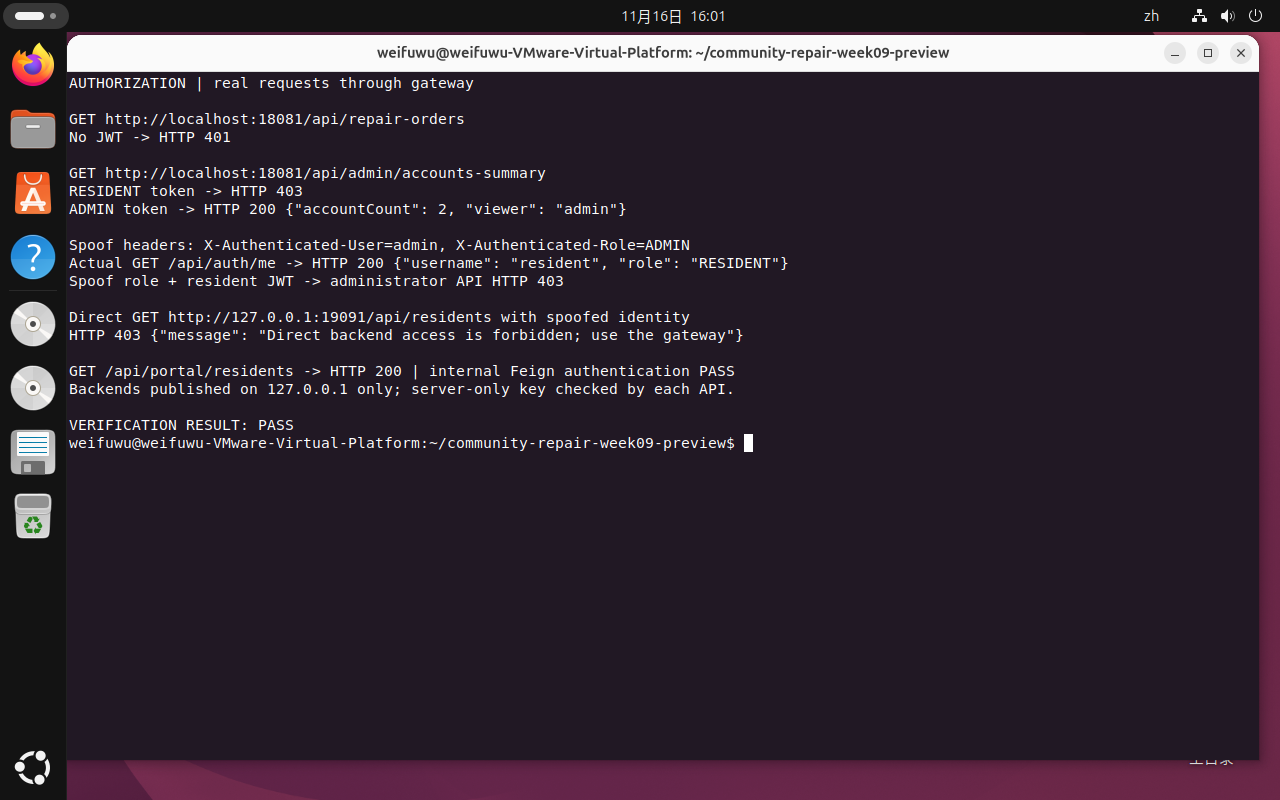
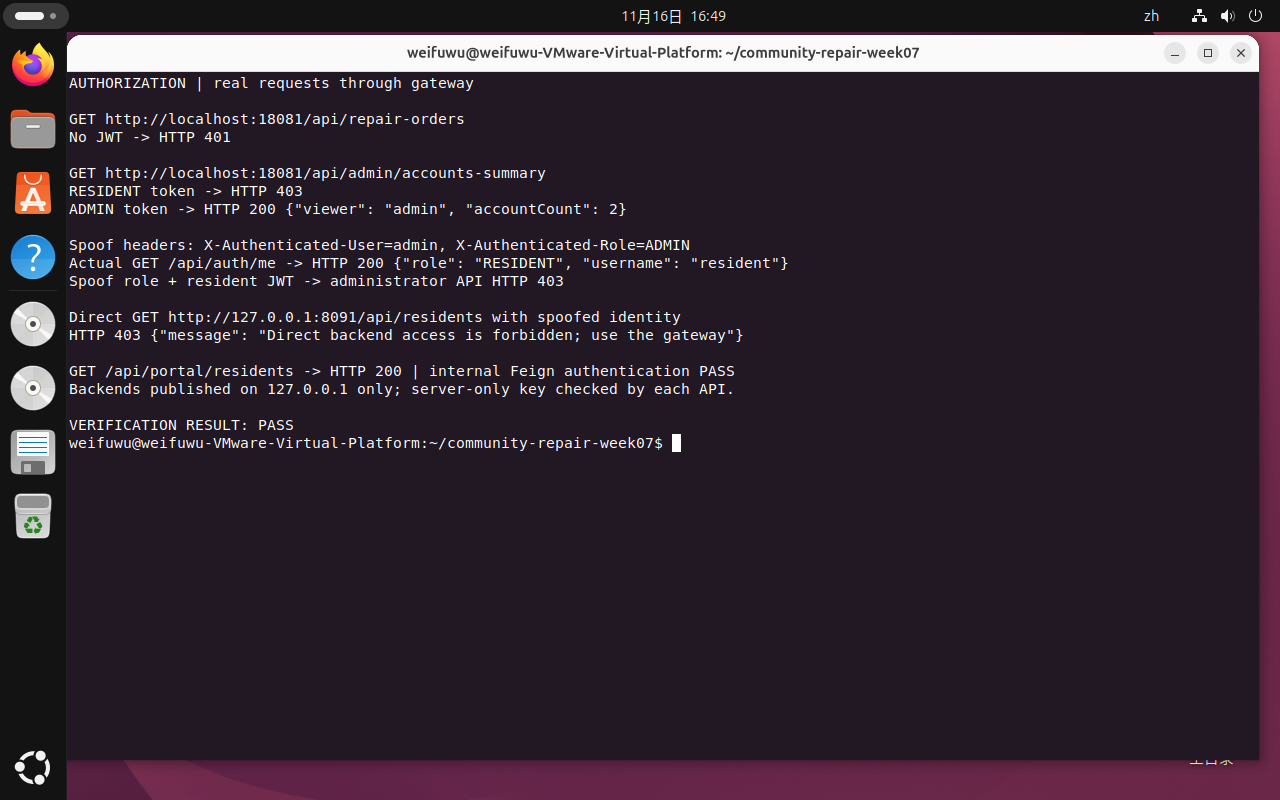
Document original deployment upgrade and refresh Ubuntu evidence

diff --git a/docs/ui-guide.md b/docs/ui-guide.md
@@ -1,11 +1,13 @@
 # 可视化报修工作台
 
+> 第九周更新：统一通过网关 18081 访问，使用本地测试账号登录。admin 为管理员，resident 为普通用户，普通用户不能审核、派单、删除或修改档案。原 8093 端口仅保留回环诊断用途。
+
 ## 访问和启动
 
 网页直接部署在 `services/repair-service/src/main/resources/static/`，随 Spring Boot 打包。
 
-- Windows：`http://192.168.158.128:8093/`
-- Ubuntu：`http://localhost:8093/`
+- Windows：`http://192.168.158.128:18081/`
+- Ubuntu：`http://localhost:18081/`
 
 在 Ubuntu 当前项目根目录执行 `sudo docker compose up -d --build`。本机实际运行副本为 `~/community-repair-week07`，源码仓库保留在 Windows 原目录。更新报修服务可执行 `sudo docker compose up -d --build --no-deps repair-service`，数据库卷及原数据保留。
 
@@ -25,7 +27,7 @@
 
 `/api/portal/residents` 和 `/api/portal/technicians` 提供 GET 列表、POST 新增及 GET 单条。PortalController 负责输入输出，第 8 周起，DependencyClient 通过 OpenFeign 按服务名调用，底层使用 Nacos 与 LoadBalancer 寻址，保留连接和读取超时。输入使用 DTO 校验，实际档案规则及存储仍由对应的 user-service 或 technician-service 完成。页面不连接数据库、不写死依赖 IP、不需要 CORS，也不保存 Nacos 凭据。
 
-原工单 API 及业务 Service 规则继续使用。资源不存在返回 404、冲突返回 409、依赖不可用返回 503。实际维修完成、验收和业务登录权限仍未实现。
+原工单 API 及业务 Service 规则继续使用。资源不存在返回 404、冲突返回 409、依赖不可用返回 503。实际维修完成和验收仍未实现；业务登录与角色权限已在第九周接入。
 
 ## 本次验证
 
@@ -37,7 +39,7 @@
 
 ## 功能边界
 
-当前所有角色操作在同一演示工作台进行，没有登录或权限限制。接单界面模拟人员操作，不构成真实身份认证。历史已有服务健康检查和 Nacos 注册功能不等价于业务认证。运行结果以当次接口响应和数据为准。
+当前工作台要求登录，并由网关校验 JWT 和角色。管理员负责审核、派单、接单及删除，普通账号只能进行允许的读取和报修创建。接单目前仍由管理员演示操作，尚未绑定独立的维修人员登录身份。服务健康检查和 Nacos 注册本身不等价于业务认证。运行结果以当次接口响应和数据为准。
 
 
 真实页面停服验证：user-service 停止后，用已存在住户从页面提交新的有效工单，显示 HTTP 503，数量为 9 → 9；恢复并重新注册后，同一页面的新描述提交成功，新增工单 10（SUBMITTED）。另验证分页和服务器文本转义，无浏览器运行异常。演示期间的用户服务已恢复，其他服务和数据库未删除。
@@ -59,7 +61,7 @@
 
 删除只移除所选工单，不删除住户和维修人员档案。成功后关闭窗口，刷新列表、分页和统计；删除失败会保留窗口并显示后端错误。删除与此前正在进行的刷新按顺序执行，避免成功删除后又展示旧列表。
 
-后端提供 `DELETE /api/repair-orders/{id}`，事务由 RepairService 管理，成功返回 204（无响应体），不存在或重复删除返回 404。已有的乐观锁冲突按原错误处理返回 409。各状态的单条工单都可删除，目前没有回收站，也没有业务登录和权限限制，因此仍仅用于课程演示。
+后端提供 `DELETE /api/repair-orders/{id}`，事务由 RepairService 管理，成功返回 204（无响应体），不存在或重复删除返回 404。已有的乐观锁冲突按原错误处理返回 409。各状态的单条工单都可删除，目前没有回收站；删除要求 ADMIN 角色，由网关拦截普通账号。系统仍用于课程演示，尚未实现逐条工单的数据范围权限。
 
 请保留期中演示工单 BX-0011。验收删除功能时应新建明确标记的临时工单，不要使用需要留存的汇报记录。
 

diff --git a/docs/homework/week-09/index.md b/docs/homework/week-09/index.md
@@ -64,18 +64,24 @@ bash scripts/auth-test.sh
 
 材料应以实际验证为准，运行截图完成后再提交。测试账号分别为 admin/ADMIN 和 resident/RESIDENT，密码从本地环境文件获取。尚未实现记录级权限、刷新令牌、登录限流和正式密码重置，不将这些功能列为已完成。
 
-## 本次 Ubuntu 实际验证环境
+## 本次 Ubuntu 原部署更新与验证
 
-本次运行证据来自独立目录 `/home/weifuwu/community-repair-week09-preview`、Compose 项目 `community-repair-week09-preview`，使用独立数据库卷及 Nacos 的 `WEEK09_VERIFY_GROUP`。原 `/home/weifuwu/community-repair-week07` 运行环境与业务数据未替换。两套环境不能混用诊断端口或注册分组。
+经用户确认后，已在原目录 `/home/weifuwu/community-repair-week07`、原 Compose 项目 `community-repair-services` 更新本周网关与认证配置。截图及运行证据已重新取自原环境，注册分组继续使用 `PERSONAL_GROUP`。
 
-验证入口为 `http://192.168.158.128:18081/`，后端回环诊断端口为 19091（住户实例一）、19094（住户实例二）、19092（维修人员）、19093（报修）。验证库只包含本周新建的测试数据，不将其描述为原库历史业务数据。根目录 `compose.yaml` 提供正式更新配置；`compose.week09-verify.json` 是本次独立验证配置。
+统一入口为 `http://192.168.158.128:18081/`。住户两个实例的回环诊断端口为 8091、8094，维修人员为 8092，报修为 8093；这些后端端口不再直接向局域网发布。原 Nacos 控制台仍使用 18088，数据库仍保留原有三个数据卷。
+
+更新前已备份配置、源代码、三个数据库完整 SQL、原镜像标识及业务表快照，备份位于 Ubuntu 的 `/home/weifuwu/week09-backups/original-before-update-20261116/`。该私有备份包含数据库资料，不上传 GitHub。
+
+更新前后逐字节比较原业务表数据快照，住户 11 条、维修人员 15 条、工单 21 条均未改变；三个数据库数据卷名称也一致。认证所需的账号表是本周新增内容，不覆盖原住户资料。保留两个住户服务实例，账号存放于同一个原 user_db。
 
 ```bash
-cd /home/weifuwu/community-repair-week09-preview
-docker compose -f compose.preview.json ps
+cd /home/weifuwu/community-repair-week07
+docker compose ps
 bash scripts/auth-test.sh
 ```
 
-独立配置复现时先配置数据库及 Nacos 凭据、生成本地认证参数，设置 `BACKEND_TEST_URL=http://127.0.0.1:19091`，再运行 `docker compose -f compose.week09-verify.json up -d --build`。通过 `VERIFY_NACOS_ADDR` 指定现有 Nacos 地址。网关的健康成功后仍需等待业务实例注册完成，再执行认证脚本；若服务尚未就绪，脚本会如实失败而非忽略错误。
+本周代码本机服务测试合计 45 项通过，原 Ubuntu 部署实际 HTTP 验证 17 项通过，覆盖登录、未认证、越权、三条业务路由、伪造身份、令牌篡改/过期、后端直连和内部 Feign 协作。完整原部署校验见 [deployment-original.json](evidence/deployment-original.json)。
 
-本机本轮测试合计 45 项通过：user-service 10、repair-service 24、technician-service 4、gateway-service 7。Ubuntu 本轮实际 HTTP 检查 17 项通过。运行证据和截图均不含实际密码、签名密钥或完整 JWT。
+此前的独立预览容器已停止，预览数据库卷保留作验证记录；当前 18081 端口由原部署网关提供服务。`compose.week09-verify.json` 仅保留为可选独立验证配置，不要与当前环境同时占用同一网关端口。原部署启动使用根目录 `compose.yaml`。
+
+本次终端截图和证据不包含实际密码、JWT 签名密钥或完整令牌。测试账号仍为 admin/ADMIN、resident/RESIDENT，密码只在本地环境文件中保存。

diff --git a/docs/security.md b/docs/security.md
@@ -73,18 +73,24 @@ JWT 使用 HS256，包含 `sub`、`roles`、`iss=https://community-repair.local`
 
 参考：[Spring Cloud Gateway](https://docs.spring.io/spring-cloud-gateway/reference/)、[Spring Security JWT](https://docs.spring.io/spring-security/reference/reactive/oauth2/resource-server/jwt.html)。
 
-## 本次 Ubuntu 实际验证环境
+## 本次 Ubuntu 原部署更新与验证
 
-本次运行证据来自独立目录 `/home/weifuwu/community-repair-week09-preview`、Compose 项目 `community-repair-week09-preview`，使用独立数据库卷及 Nacos 的 `WEEK09_VERIFY_GROUP`。原 `/home/weifuwu/community-repair-week07` 运行环境与业务数据未替换。两套环境不能混用诊断端口或注册分组。
+经用户确认后，已在原目录 `/home/weifuwu/community-repair-week07`、原 Compose 项目 `community-repair-services` 更新本周网关与认证配置。截图及运行证据已重新取自原环境，注册分组继续使用 `PERSONAL_GROUP`。
 
-验证入口为 `http://192.168.158.128:18081/`，后端回环诊断端口为 19091（住户实例一）、19094（住户实例二）、19092（维修人员）、19093（报修）。验证库只包含本周新建的测试数据，不将其描述为原库历史业务数据。根目录 `compose.yaml` 提供正式更新配置；`compose.week09-verify.json` 是本次独立验证配置。
+统一入口为 `http://192.168.158.128:18081/`。住户两个实例的回环诊断端口为 8091、8094，维修人员为 8092，报修为 8093；这些后端端口不再直接向局域网发布。原 Nacos 控制台仍使用 18088，数据库仍保留原有三个数据卷。
+
+更新前已备份配置、源代码、三个数据库完整 SQL、原镜像标识及业务表快照，备份位于 Ubuntu 的 `/home/weifuwu/week09-backups/original-before-update-20261116/`。该私有备份包含数据库资料，不上传 GitHub。
+
+更新前后逐字节比较原业务表数据快照，住户 11 条、维修人员 15 条、工单 21 条均未改变；三个数据库数据卷名称也一致。认证所需的账号表是本周新增内容，不覆盖原住户资料。保留两个住户服务实例，账号存放于同一个原 user_db。
 
 ```bash
-cd /home/weifuwu/community-repair-week09-preview
-docker compose -f compose.preview.json ps
+cd /home/weifuwu/community-repair-week07
+docker compose ps
 bash scripts/auth-test.sh
 ```
 
-独立配置复现时先配置数据库及 Nacos 凭据、生成本地认证参数，设置 `BACKEND_TEST_URL=http://127.0.0.1:19091`，再运行 `docker compose -f compose.week09-verify.json up -d --build`。通过 `VERIFY_NACOS_ADDR` 指定现有 Nacos 地址。网关的健康成功后仍需等待业务实例注册完成，再执行认证脚本；若服务尚未就绪，脚本会如实失败而非忽略错误。
+本周代码本机服务测试合计 45 项通过，原 Ubuntu 部署实际 HTTP 验证 17 项通过，覆盖登录、未认证、越权、三条业务路由、伪造身份、令牌篡改/过期、后端直连和内部 Feign 协作。完整原部署校验见 [deployment-original.json](homework/week-09/evidence/deployment-original.json)。
 
-本机本轮测试合计 45 项通过：user-service 10、repair-service 24、technician-service 4、gateway-service 7。Ubuntu 本轮实际 HTTP 检查 17 项通过。运行证据和截图均不含实际密码、签名密钥或完整 JWT。
+此前的独立预览容器已停止，预览数据库卷保留作验证记录；当前 18081 端口由原部署网关提供服务。`compose.week09-verify.json` 仅保留为可选独立验证配置，不要与当前环境同时占用同一网关端口。原部署启动使用根目录 `compose.yaml`。
+
+本次终端截图和证据不包含实际密码、JWT 签名密钥或完整令牌。测试账号仍为 admin/ADMIN、resident/RESIDENT，密码只在本地环境文件中保存。

diff --git a/README.md b/README.md
@@ -2,12 +2,12 @@
 
 ## 第九周：网关与认证入口
 
-本周验证入口为 `http://<Ubuntu-IP>:18081/`，工作台已接入登录；本周配置将业务端口限制为回环诊断访问。
+统一入口为 `http://<Ubuntu-IP>:18081/`，工作台已接入登录；本周配置将业务端口限制为回环诊断访问。
 首次配置好原数据库/Nacos `.env` 后运行 `python3 scripts/init-auth-env.py`，再执行 `docker compose up -d --build`。
 测试账号为 `admin`（ADMIN）和 `resident`（RESIDENT），随机测试密码仅保存在本地 `.env`，数据库保存 BCrypt 哈希。
 `bash scripts/auth-test.sh` 验证登录、认证、角色、三条路由及防绕过，失败返回非零退出码。
 完整说明：[安全与路由](docs/security.md)、[本周作业和截图](docs/homework/week-09/index.md)。
-本周在独立 Ubuntu 验证环境运行，原环境尚未替换，详情见本周文档。采用本周配置后，旧周次直接访问业务端口的示例属于历史验证记录，需从网关携带 JWT 访问。旧脚本若未携带内部凭据不再适用于本周部署。
+本周配置已更新到原 Ubuntu 部署，原数据卷及业务记录已核对保留。旧周次直接访问业务端口的示例属于历史验证记录，需从网关携带 JWT 访问。旧脚本若未携带内部凭据不再适用于本周部署。
 
 测试：`./services/user-service/mvnw -f services/user-service/pom.xml test`；将 pom.xml 路径中的服务名分别换为 `technician-service`、`repair-service`、`gateway-service` 可运行对应测试。
 
@@ -24,8 +24,8 @@
 
 已在现有 `repair-service` 内加入同源网页，无需另装前端工具，也不依赖外部 CDN。
 
-- Windows 浏览器访问：<http://192.168.158.128:8093/>。
-- Ubuntu 本机访问：<http://localhost:8093/>；虚拟机 IP 变化时需替换访问地址。
+- Windows 浏览器访问：<http://192.168.158.128:18081/>。
+- Ubuntu 本机访问：<http://localhost:18081/>；虚拟机 IP 变化时需替换访问地址。
 - 支持工单搜索、状态与类型筛选、分页、详情、提交、审核通过或驳回、技能匹配派单、确认接单，以及带二次确认的单条工单删除。
 - 支持新增住户及维修人员档案，档案仍由各自服务独立保存。
 - 页面通过 `/api/portal/residents`、`/api/portal/technicians` 同源接口读取和新增档案。后端仍使用 Nacos 发现实例并发起 HTTP 请求，没有跨库访问，也未放开跨域。
@@ -39,9 +39,9 @@ sudo docker compose up -d --build
 sudo docker compose up -d --build --no-deps repair-service
 ```
 
-首次演示按“新增住户 → 新增可接单的维修人员 → 新建报修 → 查看详情 → 审核通过 → 派单 → 确认接单”操作。派单人员技能须与报修类别匹配。
+使用 admin 账号登录后，首次演示按“新增住户 → 新增可接单的维修人员 → 新建报修 → 查看详情 → 审核通过 → 派单 → 确认接单”操作。派单人员技能须与报修类别匹配。
 
-**范围：** 页面为课程演示工作台，尚未实现业务用户登录、角色授权及数据范围限制。住户档案不是登录账号，确认接单也不代表维修完工。不要用于真实多用户生产环境。Nacos 管理员登录与业务登录是不同功能。
+**范围：** 页面已接入业务账号登录和 ADMIN/RESIDENT 角色授权，尚未实现逐条工单的数据范围限制。住户档案不是登录账号，确认接单也不代表维修完工。不要用于真实多用户生产环境。Nacos 管理员登录与业务登录是不同功能。
 
 验证和截图见 [可视化页面说明](docs/ui-guide.md)。
 

diff --git a/docs/homework/week-09/提交说明.md b/docs/homework/week-09/提交说明.md
@@ -4,7 +4,7 @@ GitHub 仓库：https://github.com/shigaharuki17/microservices-practice-24121907
 
 ## 1. API Gateway
 
-已在原社区报修项目中新增独立网关，使用服务名发现住户、维修人员和报修三个服务，统一通过 18081 端口访问。Ubuntu 独立验证环境中三条业务路由均返回真实 JSON 和 200，健康端点返回 UP。截图上传 `01-ubuntu-gateway.png`，可补充 `05-ubuntu-code.png`。
+已在原社区报修项目中新增独立网关，使用服务名发现住户、维修人员和报修三个服务，统一通过 18081 端口访问。原 Ubuntu 部署中三条业务路由均返回真实 JSON 和 200，健康端点返回 UP。截图上传 `01-ubuntu-gateway.png`，可补充 `05-ubuntu-code.png`。
 
 ## 2. 认证服务
 
@@ -18,4 +18,4 @@ GitHub 仓库：https://github.com/shigaharuki17/microservices-practice-24121907
 
 在仓库根目录运行 bash scripts/auth-test.sh，可重复验证未登录、两类账号登录、三条路由、角色越权、身份伪造、令牌篡改与过期、后端直连以及 Feign 内部协作。本轮 Ubuntu 实际 HTTP 检查 17 项全部通过，本机服务测试共 45 项通过，失败返回非零退出码。截图上传 `04-ubuntu-tests.png`。
 
-以上证据来自 Ubuntu 独立验证部署；原运行环境未替换。验证环境仅新增本周演示数据，不与原业务数据库混用。完整配置、源代码、测试和限制说明见本周 index.md 与 docs/security.md。
+以上证据已更新为原 Ubuntu 部署实测。更新前已备份，原有 11 条住户、15 条维修人员和 21 条工单的数据快照及原数据卷均保持一致。完整配置、源代码、测试和限制说明见本周 index.md 与 docs/security.md。
